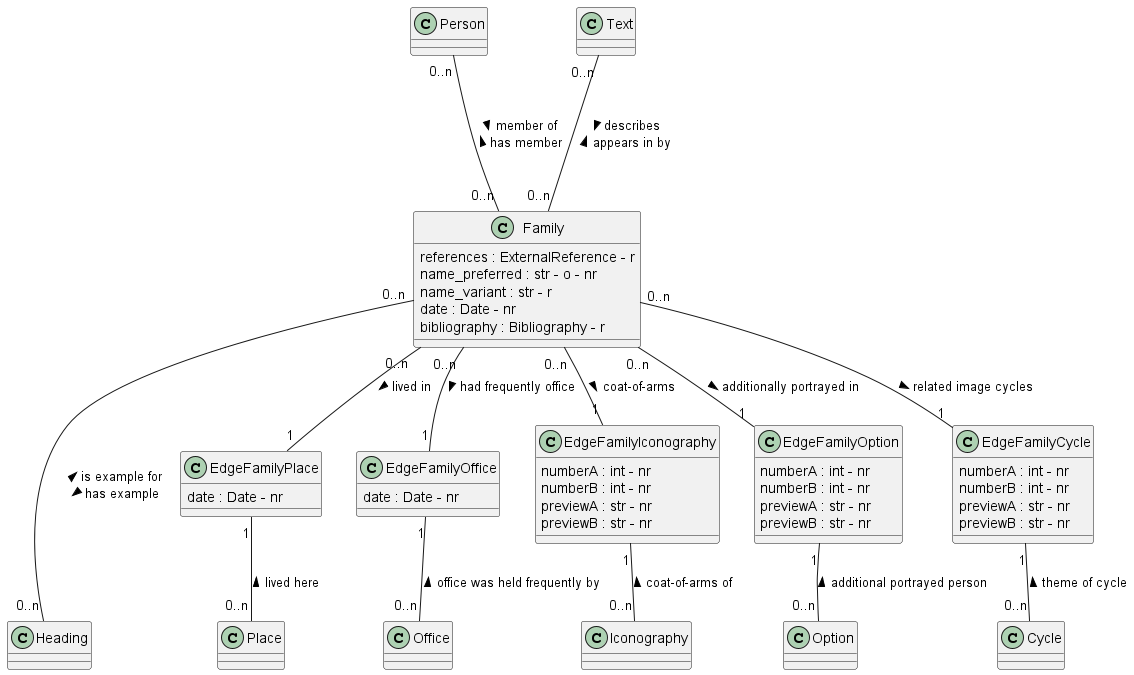
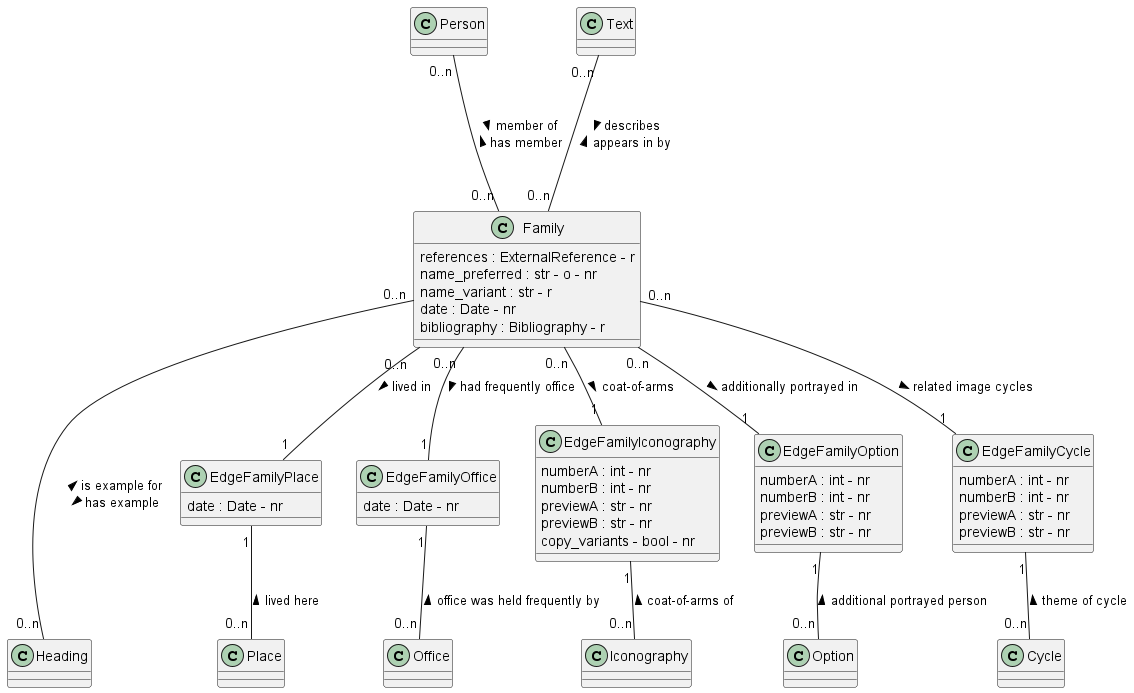
class Iconography added

diff --git a/documentation/Iconobase - Classes.md b/documentation/Iconobase - Classes.md
@@ -136,6 +136,8 @@ arms of / arms (for heraldry)
 
 The attributes given on the Edge are the standard attributes for everything connected to iconography. Since they go in directions, one could also write them onto the arrows. 
 
+The attribute copy_variants determines if any variants (i.e., Criteria and Options) linked to the Person record should be made available in this Iconography record. 
+
 
 **Edge between Person and Option (EdgePersonOption)**
 
@@ -214,6 +216,8 @@ The Edge to Iconography would be used with different relationships for different
 portrait of members / family of portrayed persons (for a group portrait). 
 
 The Edge to Option would function similarly, but it is hard to think of real use-cases, so I primarily included it for the sake of consistency. 
+
+The attribute copy_variants determines if any variants (i.e., Criteria and Options) linked to the Family record should be made available in this Iconography record. 
 
 
 **Edge between Family and Cycle (EdgeFamilyCycle):**
@@ -316,6 +320,10 @@ emblem about / organisation alluded to in this emblem (for emblems)
 coat of arms of / organisation bearing these arms (for heraldic images)
 
 The attributes given on the Edge are the standard attributes for everything connected to iconography. Since they go in directions, one could also write them onto the arrows. 
+
+The attribute copy_variants determines if any variants (i.e., Criteria and Options) linked to the Organisation record should be made available in this Iconography record (is rather unlikely to happen for Organisations). 
+
+
 
 
 **Edge between Organisation and Option (EdgeOrganisationOption)**
@@ -449,6 +457,10 @@ plan / plan of
 for Iconography "Narrative Scene" 
 action happening here / place of action (Here is a problem: this would only indicate where an action took place, not if the place is really shown there, the latter would be rather under EdgePlaceOption)
 
+The attribute copy_variants determines if any variants (i.e., Criteria and Options) linked to the Place record should be made available in this Iconography record. 
+
+
+
 **Edge between Place and Option (EdgePlaceOption):**
 
 This is in principle similar to EdgePlaceIconograhy. It will probably be largely used if a building or a building part can feature in a narrative scene or not (e.g., if the Meta Romuli appears in the Crucifixion of St Peter)
@@ -560,6 +572,14 @@ These two Edges could be used to show for every text the illustrated manuscripts
 **Edge between Text and Artwork:**
 
 Here, the cardinality from Artwork to Text is normally 0..1 (an Artwork may can only illustrate one Text, the text written next to it). However, there can be additional connections to texts with duplicate as True, hence 0..n in this situation. 
+
+**Edge between Text and Iconography (EdgeTextIconography):**
+**Edge between Text and Option (EdgeTextOption):**
+
+This Edge is used for two different scenarios
+- with the Text being the literary source of the iconography (relation source of / source as shown in the digram)
+- with the Text (normally a Text with the type "Quotation") being actually quoted as part of the Iconography (this will happen more often wiht Option records) (relation quoted in / quotes)
+
 
 **Additional criteria for creating links:**
 - Links between Texts and Texts: The following "part of" connections are possible. One should not that "Chapters" are not hierarchically higher than "Passages". In the Bible, for instance, one might have a "Passage" "Story of Abraham" comprising some 10 chapters of Genesis. 
@@ -677,6 +697,8 @@ Some inscriptions are regular parts of iconographies (e.g., Apostles holdings sc
 
 When thinking of it, I wonder if one should not restrict Inscription to connections to Image record and connect Iconography and Option records directly with the text instead. 
 
+![Create](./class_diagrams/Inscription.png)
+
 **Attributes:**
 
 - text: This is the field that would normally be filled, it has the text in original language but in normalised spelling (e.g., without abbreviations)
@@ -700,6 +722,50 @@ There must be either a link to a Text record, or the text field must be filled (
 
 The record must be connected to an Image record (or, if I use that, to an Iconography record)
 
+## Iconography
+
+This record is the central record on subject-matter of an Image, and as such it has numerous connections: firstly to Object records describing the depicted Objects (Persons, Places, etc.), secondly to Criterion records describing potential variations, and thirdly to Image records. 
+
+![Create](./class_diagrams/Iconography.png)
+
+**Attributes:**
+
+- type: in this case (and contrary to, e.g., Person records), here the type is non-repeatable. 
+- references: This refers primarily to Iconclass notations. One could also refer here to Warburg or Princeton Index URIs.
+
+**Edge between Iconography and Person (EdgePersonIconography):**
+**Edge between Iconography and Family (EdgeFamilyIconography):**
+**Edge between Iconography and Organisation (EdgeOrganisationIconography):**
+**Edge between Iconography and Place (EdgePlaceIconography):**
+**Edge between Iconography and Natural Object (EdgeNaturalObjectIconography):**
+**Edge between Iconography and Text (EdgeTextIconography):**
+**Edge between Iconography and Action (EdgeActionIconography):**
+**Edge between Iconography and Artwork (EdgeArtworkIconography):**
+
+These Edges connect the Iconography record to records for the Objects shown in the Iconography. All Edges are explained with the respective Objects. Several more such Edges will be added later. 
+
+**Edge between Iconography and Criterion (EdgeIconographyCriterion):**
+
+This Edge connects the Iconography record with a Criterion record that specifies an element where variants occur, e.g., a specific attribute that may be present or not. 
+Its only attribute, the number, is a means to bring the Criterion records into a meaningful order. 
+
+**Edge between Iconography and Image (EdgeImageIconography):**
+see above
+
+**Additional criteria for creating links:**
+
+Links to Object records can only be made if the Object is appropriate for the type of the Iconography record, e.g., a Portrait record can only be linked to Person and Organisation records (portrait and group portrait), not to Places or Actions. 
+
+
+**Additional criteria for validation for saving record:**
+
+none
+
+**Additional criteria for validation for publishing record:**
+
+- the record must be linked to at least one Object record. 
+- the record must be linked to at least one Iconography record. 
+- according to some preliminary discussions with the editors of Iconclass: if the record has no Iconclass ID in external references, an automatic message will be sent to Iconclass. If Iconclass assigns a notation to this iconography, this ID will be sent to Iconobase (if possible, it should be added to the record automatically, otherwise manually). 
 
 # Group Records
 
